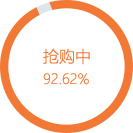
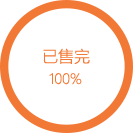
惠房宝、提现修改

Changed region(s): [[0.3008, 0.3609, 0.6917, 0.5113], [0.3008, 0.5414, 0.6917, 0.6617], [0.2707, 0.0, 0.391, 0.1203]]

diff --git a/static/html/wylc/fdsy/hfb1.html b/static/html/wylc/fdsy/hfb1.html
@@ -59,77 +59,62 @@
 							</p>
 							<p>
 								<span>加入人数：</span>
-								<em>57人</em>
+								<em>327人</em>
 							</p>
 						</div>
-						<!-- 已登录 -->
-						<!-- <div class="each-part2" id="entrance">
-							<p><span class="p-ti">剩余金额</span><span class="num">￥9600000</span></p>
-							<p><span class="p-ti">账户余额</span><span class="num">￥6660000</span><a href="/my/refund/recharge.html" class="recharge">[充值]</a></p>
-							<p style="margin-bottom:5px;">
-								<span class="p-ti">购买金额</span>
-								<input type="text" placeholder="100元起购">
-							</p>
-							<p class="error-msg">请填写购买金额</p>
-							<p class="sub-text" style="letter-spacing:-1px;">每人累计可购买50000元，您还可以购买50000元</p>
-							<p class="sub-text"><input type="checkbox" class="check"><span>《活期宝投资协议》</span></p>
-							<p><a class="light-btn">购买</a></p>
-						</div> -->
-						<!-- 未登录 -->
 						<div class="each-part2">
-							<p><span class="p-ti">账户金额</span><span class="num">￥9600000</span></p>
+							<p><span class="p-ti">项目金额</span><span class="num">￥10000000</span></p>
 							<p style="margin-bottom:10px;">
 								<span class="p-ti">购买金额</span>
 								<input type="text" placeholder="1000元起购，,100递增">
 							</p>
 							<p class="sub-text" style="margin-bottom:10px;">注：购买金额越高，分红比例越高</p>
 							<p><span class="p-ti">预期收益</span><span class="num2">0.00元</span></p>
-							<p><a href="/users/login.html" class="light-btn" style="margin-top:0;">登录购买</a></p>
+							<p><a href="/users/login.html" class="gray-btn" style="margin-top:0;">已售完</a></p>
 						</div>
 						<span class="assure3">账户资金安全由中国人保承保</span>
 					</div>
 				</div>
 				<div class="tab-col">
 					<div class="tab"><span class="selected navObj">产品特点</span><span class="navObj" style="box-shadow:1px -1px 1px 0px #d3d3d3;">常见问题</span></div>
-					<div class="cont hqb-feature shadow-box show">
+					<div class="cont hqb-feature shadow-box show" style="padding:48px;">
 						<p class="ti"><em>产品简介</em></p>
 						<div class="fea-each">
-							<p>活期宝是小牛钱罐子推出的一款活期理财产品，根据投资人的委托，加入活期宝的资金分散投资于货币市场基金（与诺安基金合作）以及优质债权项目，具备随时变现的流动性。</p>
-							<p><em>期限：</em>活期</p>
-							<p><em>预期年化收益率：</em>5.5%起，逐月递增0.5%，最高11%</p>
-							<p><em>收益方式：</em>一次性还本付息</p>
-							<p><em>起投金额：</em>100元</p>
+							<p>惠房宝是小牛钱罐子推出的一款浮动收益理财产品，募集资金用于房地产项目运营，以经营性租赁业务应收账款作为基础质押资产进行证券化。</p>
+							<p><em>预期年化收益率：</em><span style="width:197px;">8% - 14.4%，其中8%为固定收益， 其余部分为浮动收益。浮动收益 =  （项目运营收益 – 固定收益）&times;分 红比例</span></p>
+							<p><em>投资期限：</em>36个月</p>
+							<p><em>收益方式：</em><span>固定收益按月付息，浮动收益按年分红， 本金到期一次性返还。</span></p>
+							<p><em>起购金额：</em>1000元</p>
 						</div>
-						<em class="verti-line"></em>
-						<div class="fea-each">
-							<p><em>购买递增金额：</em>1元</p>
-							<p><em>单人购买限额：</em>50000元</p>
-							<p><em>计息开始日：</em>购买当日</p>
-							<p><em>计息结束日：</em>赎回申请日前一天（赎回当日不计息）</p>
-							<p><em>赎回到账时间：</em>T+1到达账户余额</p>
-							<p><em>赎回规则：</em><span>购买7日后可赎回；可全额赎回或部分赎回；不限赎回次数</span></p>
+						<em class="verti-line" style="height:360px;"></em>
+						<div class="fea-each" style="width:339px;">
+							<p><em>购买递增金额：</em>100元</p>
+							<p><em>分红比例：</em><span style="width:279px;">购买金额&lt;5000元，无分红<br>5,000元&lt;=购买金额&lt;20,000元，分红比例为5%<br>20,000元&lt;=购买金额&lt;50,000元，分红比例为10%<br>50,000元&lt;=购买金额&lt;100,000元，分红比例为15%<br>购买金额&gt;=100,000元，分红比例为20%</span></p>
+							<p><em>计息开始日：</em><span style="width:250px;">产品宣告成立当日开始计息。<br>购买次日至起息日之间的收益按活期收益0.35%计算（不含起息日）。</span></p>
+							<p><em>计息结束日：</em>产品到期日</p>
+							<p><em>流动性：</em>持有3个月后可在平台自主发起债权转让</p>
 						</div>
 					</div>
 					<div class="cont qa shadow-box">
 						<div>
 							<span>
-								<p class="ti">活期宝的投资范围是什么？</p>
-								<p>加入活期宝的资金分散投资于货币市场基金（与诺安基金合作）以及优质债权项目，具备随时变现的流动性。</p>
+								<p class="ti">惠房宝投资金额与收益关系？</p>
+								<p>1000元起投，100元的整数倍累加。投资收益为8%固定收益+5%、10%、15%、20%分红；详情如下:5K元=5%分红；  20K元=10%分红；50K元=15%分红；100K元=20%分红。</p>
 							</span>
 							<span>
-								<p class="ti">什么是活期宝赎回锁定期？</p>
-								<p>锁定期为7天，用户的每笔投资都需在持有7日后才可赎回，购买当日算第1天</p>
+								<p class="ti">惠房宝产品如何进行风险控制？</p>
+								<p>1.资金归集将通过第三方支付公司；<br>2.项目评审将通过小牛网络科技的投资决策委员会与风险控制委员会的表决通过；<br>3.依据项目特点，将在项目的每投资年度内，向投资者公布相关运营信息，接收广大投资者监督。</p>
 							</span>
 						</div>
 						<em class="cross-line"></em>
 						<div>
 							<span>
-								<p class="ti">活期宝中的投资有何安全保障？</p>
-								<p>小牛钱罐子与中国人民保险公司达成合作，全方位保障用户账户资金安全，并且我司准备了高额的风险准备金，随时为突发风险做妥善准备。</p>
+								<p class="ti">惠房宝的资金用途是什么？</p>
+								<p>以集合中小投资者资金投资债权形式，汇集资金并支持房地产运营项目业务的扩张性发展。</p>
 							</span>
 							<span>
-								<p class="ti">什么是赎回自动匹配规则？</p>
-								<p>1、用户申请赎回时，只需输入要赎回的金额（小于或等于可赎回金额），无需选择赎回哪几笔投资。<br>2、系统根据用户的赎回金额，自动匹配投资记录，优先赎回收益率较低的1笔或多笔投资（按收益规则，最近购买的收益率最低）。</p>
+								<p class="ti">惠房宝的流动性如何控制？</p>
+								<p>产品满额后即宣告成立，成立后采用封闭式运作，投资者可以根据流动性需求在小牛钱罐子自主发起债权转让。</p>
 							</span>
 						</div>
 					</div>

diff --git a/static/css/base.css b/static/css/base.css
@@ -56,7 +56,7 @@ h4.col-ti span{float:left;}
 h4.col-ti .ti-logo{padding:7px;background: #f27835;margin-top:5px;margin-right: 15px;}
 h4.col-ti a{color:#f27835;text-decoration: underline;font-size: 14px;}
 a.quit{background: url(../img/quit.png) no-repeat;height: 18px;width:18px;display: inline-block;}
-p.error-msg{font-size: 12px;color:#dc5b46;font-style: normal;line-height: 15px;height:15px;text-align: left;}
+p.error-msg{font-size: 12px !important;color:#dc5b46;font-style: normal;line-height: 15px !important;height:15px !important;text-align: left;}
 
 
 
@@ -66,7 +66,7 @@ p.error-msg{font-size: 12px;color:#dc5b46;font-style: normal;line-height: 15px;h
 .header .fl a{display: inline-block;vertical-align: top;}
 .header .fl .slogan{margin-left: 30px;margin-top: 12px;}
 .header .fr{height:40px;line-height: 40px;position: relative;z-index:1;}
-.header .fr a{text-decoration: none;color:#373737;display: inline-block;width: 100%;}
+.header .fr a{text-decoration: none;color:#373737;width: 100%;}
 .header .fr a.link{display:inline-block;width: 130px;height:40px;}
 .header .fr a.link:hover{background:#f27835;color:#fff;}
 .header .fr a.selected{background:#f27835;color:#fff;}
@@ -97,6 +97,7 @@ p.error-msg{font-size: 12px;color:#dc5b46;font-style: normal;line-height: 15px;h
 .header .fr ul.second{left:135px;}
 .header .fr ul.forth{left:404px;}
 .header .fr ul li{font-size: 12px;line-height: 42px;cursor: pointer;border-bottom: 1px dashed #e2e2e2;}
+.header .fr ul li a{display: inline-block;}
 .header .fr ul li:hover{background:#f49a68;color:#fff;border-bottom:1px solid #f49a68;}
 .header .fr ul li:hover a{color:#fff;}
 
@@ -231,7 +232,7 @@ p.error-msg{font-size: 12px;color:#dc5b46;font-style: normal;line-height: 15px;h
 .fr-main .horizon .front-area div p.num{font-size:18px;margin:5px 0;}
 .fr-main .horizon .front-area div p.subti{font-size:10px;}
 .fr-main .horizon .front-area .operate{padding-top:20px;}
-.fr-main .horizon .front-area .operate a.light-btn{width:104px;height:26px;line-height: 26px;font-size: 12px;}
+.fr-main .horizon .front-area .operate a.light-btn, .fr-main .horizon .front-area .operate a.gray-btn{width:104px;height:26px;line-height: 26px;font-size: 12px;}
 .fr-main .horizon .front-area .operate p{font-size: 10px;margin-top:8px;}
 .fr-main .horizon .front-area div.assurecont, .horizon .front-area div.assurecont div{width: 173px;}
 

diff --git a/static/html/my/disccount.html b/static/html/my/disccount.html
@@ -1,0 +1,54 @@
+<!DOCTYPE html>
+<html>
+<head>
+	<meta charset="utf-8">
+	<meta http-equiv="X-UA-Compatible" content="IE=edge">
+	<title>小牛钱罐子</title>
+	<link rel="stylesheet" href="/static/css/base.css" type="text/css">
+	<link rel="stylesheet" href="/static/css/grzx.css" type="text/css">
+</head>
+<body>
+	<link rel="import" href="/static/html/common/header.html?__inline">
+	<div class="bk-gray">
+		<div class="wmain">
+			
+			<link rel="import" href="./sidebar.html?__inline">
+
+			<div class="fr-main disccount">
+				<h4 class="col-ti"><span class="ti-logo"></span><span class="ti-cont">我的优惠</span></h4>
+				<div class="shadow-box">
+					<div class="each">
+						<div class="red-bag">
+							<p class="ti">在项目投资时选择使用，投资成功后，返现红包金额会直接打到用户的账中，可提现。</p>
+							<div class="cont">
+								<p class="tab"><span>未使用（2）</span><span>已使用（3）</span><span>已过期（4）</span></p>
+								<div class="tab-cont">
+									
+								</div>
+								<div class="tab-cont"></div>
+								<div class="tab-cont"></div>
+							</div>
+						</div>
+					</div>
+					<div class="each">
+						<div class="jx-quan">
+							<p class="ti">在项目投资时选择使用，使用后，将在原有的利率上加息，并产生额外收益，项目到期后 一次性返还额外收益。</p>
+						</div>
+					</div>
+					<div class="each">
+						<div class="ty-quan">
+							<p class="ti">新注册用户获赠的理财体验金可直接购买指定新手产品，产生的收益均由用户所得，限在 有效期限内使用，逾期将由系统自动清零。</p>
+						</div>
+					</div>
+				</div>
+			</div>	
+		</div>
+	</div>
+
+	<link rel="import" href="/static/html/common/footer.html?__inline">
+	<script type="text/javascript">
+		var index = 0;
+		require('pages/my/system_msg');
+	</script>
+</body>
+</html>

diff --git a/static/html/my/refund/withdrawCash.html b/static/html/my/refund/withdrawCash.html
@@ -41,14 +41,20 @@
 					</p>
 					<div>
 						<p><span class="p-ti">账户余额</span><strong class="num ableBalanceAmount"></strong></p>
-						<p><span class="p-ti"><em></em>提现金额</span><input type="text" placeholder="本次可提取50元"></p>
-						<p class="error-msg"><!-- 账户余额不足，请重新输入提现金额 --></p>
+						<p style="margin-bottom:5px;"><span class="p-ti"><em></em>提现金额</span><input type="text" placeholder="本次可提取50元"></p>
+						<p class="error-msg" style="margin-bottom:5px;"><!-- 账户余额不足，请重新输入提现金额 --></p>
+						<!-- 免费时 -->
+						<p style="margin-bottom:15px;"><span class="p-ti">提现费用</span>本月还能免费提现<i>3</i>次</p>
+						<!-- 开始收费 -->
+						<p style="margin-bottom:15px;"><span class="p-ti">提现费用</span>账户余额将扣除2元手续费</p>
+						<!-- 账户余额不足 -->
+						<p style="margin-bottom:15px;"><span class="p-ti">提现费用</span><i>账户余额不足支付2元手续费</i></p>
 						<p>
 							<span class="p-ti"><em></em>交易密码</span>
 							<span class="bank-pwd"><input type="password" maxlength="1"><input type="password" maxlength="1"><input type="password" maxlength="1"><input type="password" maxlength="1"><input type="password" maxlength="1"><input type="password" maxlength="1"></span>
 						</p>
 						<p class="sub-text"><span class="p-ti"></span><span>请输入6位字交易密码</span><a href="#" class="forget-pwd">忘记密码</a></p>
-						<p class="error-msg"><!-- 错误提示 --></p>
+						<p class="error-msg" style="margin-bottom:5px;"><!-- 错误提示 --></p>
 						<p><span class="p-ti"></span><a class="light-btn nextBtn">提现</a></p>
 					</div>
 					<div class="remind-msg" style="top:100px;">

diff --git a/static/html/my/personCenter.html b/static/html/my/personCenter.html
@@ -18,7 +18,7 @@
 
 			<div class="fr-main">
 				<div class="person-data border-box">
-					<img src="/static/img/portrait.jpg" alt="" class="portrait">
+					<img src="/static/img/default-avatar.png" alt="" class="portrait">
 					<div class="fl" id="profile">
 <!-- 						<h5>您好，180999082</h5>
 						<p><span class="vip-rank">VIP2</span></p>
@@ -50,7 +50,7 @@
 				</div>
 
 				<div class="good-pro">
-					<h4 class="col-ti"><span class="ti-logo"></span><span class="ti-cont">推荐产品</span><a href="#" class="fr">更多</a></h4>
+					<h4 class="col-ti"><span class="ti-logo"></span><span class="ti-cont">推荐产品</span><a href="/wylc/hqb.html" class="fr">更多</a></h4>
 					<div class="horizon">
 						<div class="back-area">
 							<div class="text-area1">
@@ -92,7 +92,7 @@
 							<div class="text-area2">
 								<h4 class="ti">固定收益</h4>
 								<h6><a href="#">天添牛A款</a></h6>
-								<h6><a href="#" class="a-tab selected">90天</a><br><a href="#" class="a-tab">180天</a><br><a href="#" class="a-tab">360天</a><a href="#">更多></a></h6>
+								<h6><a href="#" class="a-tab selected">90天</a><br><a href="#" class="a-tab">180天</a><br><a href="#" class="a-tab">360天</a><a href="/wylc/ttn/90.html">更多></a></h6>
 							</div>
 						</div>
 						<div class="front-area show">
@@ -197,8 +197,8 @@
 								<p class="num">1000元</p>
 							</div>
 							<div class="operate">
-								<a class="light-btn">立即购买</a>
-								<p>剩余金额：<em>100</em></p>
+								<a class="gray-btn">已售完</a>
+								<p>剩余金额：<em>0</em></p>
 							</div>
 							<span class="assure"></span>
 							<div class="assurecont">

diff --git a/static/css/grzx.css b/static/css/grzx.css
@@ -47,7 +47,8 @@
 .recharge{display: none;}
 .recharge .border-box{width:854px;padding:15px 0 20px 20px;margin-bottom: 15px;position:relative;}
 .recharge .border-box p.error-msg{padding-left: 165px;}
-.recharge p{overflow: hidden;margin-bottom: 10px;}
+.recharge p{overflow: hidden;margin-bottom: 10px;font-size: 14px;}
+.recharge p i{color:#f27835;font-style:normal}
 .recharge p span.p-ti{display: inline-block;width: 150px;text-align: right;margin-right: 12px;padding:1px;font-size: 14px;}
 .recharge p input{width:216px;}
 .recharge p .bank-pwd{margin-left: -4px;}
@@ -155,3 +156,14 @@
 .myInput .tab-col .cont table tbody td{color:#373737;}
 .myInput .tab-col .cont p.btn{text-align: center;margin-top:40px;}
 .myInput .tab-col .cont p.btn a.light-btn{width:140px;margin:0 20px;display: inline-block;line-height:32px;}
+
+.disccount{}
+.disccount .shadow-box{margin:1px 1px 3px 1px;}
+.disccount .shadow-box p{font-size: 14px;}
+.disccount .each{border-top:1px solid #d3d3d3;padding:35px;width:800px;text-align: left;}
+.disccount .each .red-bag, .disccount .each .jx-quan, .disccount .each .ty-quan{padding-left:140px;width:660px;min-height: 95px;}
+.disccount .each .red-bag{background: url(/static/img/disccount1.jpg) no-repeat left center;}
+.disccount .each .jx-quan{background: url(/static/img/disccount2.jpg) no-repeat left center;}
+.disccount .each .ty-quan{background: url(/static/img/disccount3.jpg) no-repeat left center;}
+.disccount .each .red-bag .tab{line-height: 30px;}
+.disccount .each .red-bag .tab span{background: url(/static/img/arrow7.png) no-repeat right center;padding-right: 12px;font-size: 12px;margin-right:20px;}

diff --git a/static/css/zcdl.css b/static/css/zcdl.css
@@ -4,11 +4,11 @@
 .header{position:absolute;top:0;left:0;right: 0;z-index:2;}
 .header .fr .log-gister{font-size: 12px;}
 .header .fr .log-gister strong{font-size: 24px;color:#f27835;font-weight: 300;margin-right: 3px;}
-.header .fr .log-gister a{color:#f27835;}
+.header .fr .log-gister a{color:#f27835;display: inline;}
 .header .fr .log-gister a:hover{text-decoration: underline;}
 .login-page{height: 100%;vertical-align: middle;}
 .login-page .wmain{position:relative;height: 100%;z-index:1;overflow: visible;}
-.login-page .ver-middle{position: absolute;top: 48%;margin-top: -161px;left:0;height: 322px;width:100%;background: url(/static/img/banner-login.jpg) no-repeat left center;text-align: right;z-index: 3;}
+.login-page .ver-middle{position: absolute;top: 48%;margin-top: -161px;left:10%;height: 322px;width:80%;background: url(/static/img/banner-login.jpg) no-repeat left center;text-align: right;z-index: 3;}
 .login-page .cont{width:100%;height:322px;width:100%;background:#fff;margin-top:74px;}
 .login-area{margin-top:1px;margin-right: 2px;padding:50px 25px 40px 25px;}
 .login-area h5{text-align: center;}

diff --git a/static/css/gywm.css b/static/css/gywm.css
@@ -49,3 +49,12 @@
 .introduce .our-feature span.our-feature5{background: url(/static/img/introduce/feature5.png) no-repeat left top;}
 .introduce .our-feature span p{line-height: 26px;padding-left: 0}
 .introduce .our-feature span p.ti{font-size: 16px;line-height: 16px;margin-bottom: 10px;}
+
+.media .shadow-box{padding:25px;position:relative;text-align: left;margin-bottom: 15px;}
+.media .shadow-box img{margin-right: 25px;vertical-align: top;margin-top: 15px;}
+.media .shadow-box .text{display: inline-block;width:520px;}
+.media .shadow-box .text h4 a{font-size:16px;text-decoration: underline;}
+.media .shadow-box .text p{font-size: 12px;line-height: 25px;}
+.media .shadow-box .text p.sub-ti span{color:#b0adad;font-size: 12px;margin-right: 50px;}
+.media .shadow-box span.time{position:absolute;top：20px;right:20px;font-size: 12px;}
+.media .light-btn{width:100%;line-height: 32px;display: inline-block;}

diff --git a/static/css/wylc.css b/static/css/wylc.css
@@ -32,7 +32,7 @@
 .brief .bottom .each-part2 input{width:130px;}
 .brief .bottom .each-part2 input.check{width:13px;}
 .brief .bottom .each-part2 input{width:216px;}
-.brief .bottom .each-part2 a.light-btn{display:inline-block;width:100%;margin-top: 15px;height:32px;line-height: 32px;}
+.brief .bottom .each-part2 a.light-btn, .brief .bottom .each-part2 a.gray-btn{display:inline-block;width:100%;margin-top: 15px;height:32px;line-height: 32px;}
 .brief .bottom .each-part2 p.error-msg{padding-left: 70px;margin-bottom: 5px;}
 .brief .bottom .each-part2 p.sub-text{margin-bottom:0;padding-left: 65px;}
 .brief .bottom .each-part2 p a.recharge{font-size: 12px;color:#f27835;margin-bottom: 15px;}

diff --git a/static/html/index.html b/static/html/index.html
@@ -133,7 +133,7 @@
 				<div class="text-area2">
 					<h4 class="ti">固定收益</h4>
 					<h6><a href="">天添牛A款</a></h6>
-					<h6><a href="javascript:void(0)" class="a-tab selected">90天</a><br><a href="javascript:void(0)" class="a-tab">180天</a><br><a href="javascript:void(0)" class="a-tab">360天</a><a href="#">更多></a></h6>
+					<h6><a href="javascript:void(0)" class="a-tab selected">90天</a><br><a href="javascript:void(0)" class="a-tab">180天</a><br><a href="javascript:void(0)" class="a-tab">360天</a><a href="/wylc/ttn/90.html">更多></a></h6>
 				</div>
 			</div>
 			<div class="front-area show">

diff --git a/static/html/my/sidebar.html b/static/html/my/sidebar.html
@@ -15,7 +15,7 @@
 			<li><a data-type='bankCard' href="/my/account/bankCard.html">我的银行卡</a></li>
 			<li><a data-type='systemMsg' href="/my/account/systemMsg.html">系统消息</a></li>
 		</ul>
-		<a data-level="first" data-type="kickback"><span class="bonus">我的红包<em class="num">2</em></span></a>
+		<a data-level="first" data-type="kickback" href="/my/disccount.html"><span class="bonus">我的优惠</span></a>
 	</div>
 	<div class="left-adver">广告区</div>	
 </div>  

diff --git a/static/html/about/sidebar.html b/static/html/about/sidebar.html
@@ -1,7 +1,7 @@
 <div class="fl">
 	<div class="left-tab shadow-box">
 		<a href="./introduce.html"><span>公司简介</span></a>
-		<a href="#"><span>媒体报道</span></a>
+		<a href="./media.html"><span>媒体报道</span></a>
 		<a href="./insurance.html"><span>安全保障</span></a>
 		<a href="./partner.html"><span>合作机构</span></a>
 		<a href="./contact.html"><span>联系我们</span></a>
